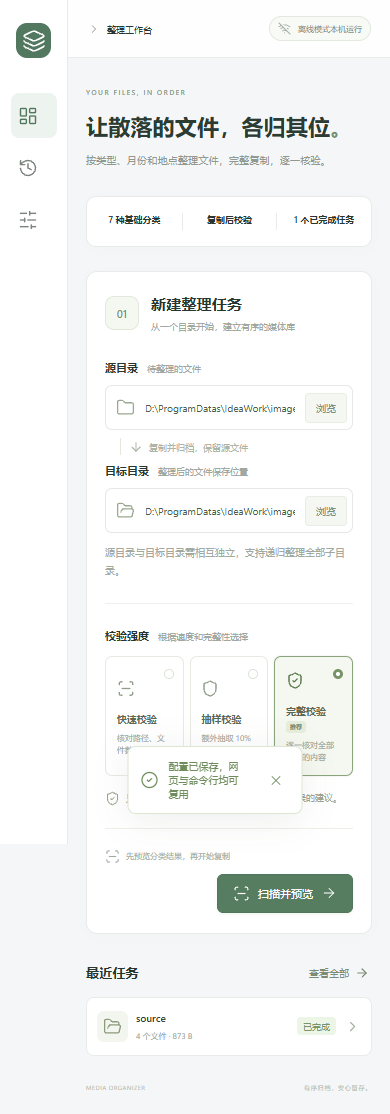
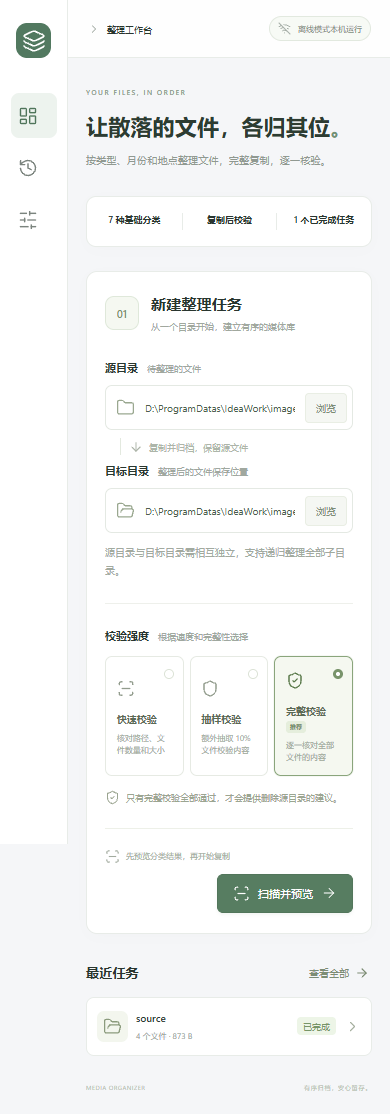
fix: harden portable runtime checks and copy edge cases

Changed region(s): [[0.2769, 0.6409, 0.8, 0.7325]]

diff --git a/frontend/src/App.vue b/frontend/src/App.vue
@@ -262,6 +262,7 @@ const selectedAll = computed(
       .every((e) => selected.value.has(e.id)),
 );
 const allPages = computed(() => Math.max(1, Math.ceil(total.value / 50)));
+let browseRequest = 0;
 let poll: ReturnType<typeof setInterval>,
   toastTimer: ReturnType<typeof setTimeout>,
   searchTimer: ReturnType<typeof setTimeout>,
@@ -481,6 +482,7 @@ async function saveEdit() {
   }
 }
 async function browse(kind: "source" | "target", path?: string) {
+  const request = ++browseRequest;
   browserBusy.value = true;
   if (!browser.value)
     browser.value = { kind, path: "", parent: "", directories: [] };
@@ -491,12 +493,14 @@ async function browse(kind: "source" | "target", path?: string) {
           path: path ?? (kind === "source" ? source.value : target.value),
         }),
     );
+    if (!browser.value || request !== browseRequest) return;
     browser.value = { kind, ...result };
     browserPath.value = result.path;
   } catch (error: any) {
     notice(error.message, true);
-    if (browser.value && !browser.value.path) {
+    if (browser.value && !browser.value.path && request === browseRequest) {
       const result = await api("/directories");
+      if (!browser.value || request !== browseRequest) return;
       browser.value = { kind, ...result };
       browserPath.value = "";
     }

diff --git a/scripts/smoke_release.py b/scripts/smoke_release.py
@@ -8,6 +8,9 @@ import subprocess
 import sys
 import tempfile
 import io
+import socket
+import time
+import urllib.request
 from pathlib import Path
 
 
@@ -60,7 +63,34 @@ def main():
             assert hashlib.sha256((target / entry["target_rel"]).read_bytes()).hexdigest() == hashlib.sha256(expected).hexdigest()
         quick = command("run", str(source), str(target), "--verification", "quick", "--yes")
         assert not quick["safe_to_delete"], quick
-    print("PASS: frozen startup, bundled tools/data, copy, SHA-256, source preservation, quick-level deletion gate", flush=True)
+        with socket.socket() as listener:
+            listener.bind(("127.0.0.1", 0))
+            port = listener.getsockname()[1]
+        server = subprocess.Popen([str(executable), "--state-dir", str(root / "server-state"), "serve", "--no-browser", "--port", str(port)], stdout=subprocess.PIPE, stderr=subprocess.PIPE, env=env, creationflags=getattr(subprocess, "CREATE_NO_WINDOW", 0))
+        try:
+            opener = urllib.request.build_opener(urllib.request.ProxyHandler({}))
+            deadline = time.monotonic() + 20
+            while True:
+                try:
+                    with opener.open(f"http://127.0.0.1:{port}/api/meta", timeout=2) as response:
+                        assert json.load(response)["offline"] is True
+                    break
+                except OSError:
+                    if server.poll() is not None or time.monotonic() >= deadline:
+                        raise AssertionError("Frozen local web service did not start")
+                    time.sleep(0.1)
+            with opener.open(f"http://127.0.0.1:{port}/", timeout=5) as response:
+                assert b'id="app"' in response.read()
+            with opener.open(f"http://127.0.0.1:{port}/api/jobs", timeout=5) as response:
+                assert json.load(response) == []
+        finally:
+            server.terminate()
+            try:
+                server.wait(timeout=10)
+            except subprocess.TimeoutExpired:
+                server.kill()
+                server.wait(timeout=5)
+    print("PASS: frozen CLI and web service, bundled tools/data, Unicode paths, offline GPS, copy, SHA-256, source preservation, quick-level deletion gate", flush=True)
 
 
 if __name__ == "__main__":

diff --git a/src/media_organizer/metadata.py b/src/media_organizer/metadata.py
@@ -32,7 +32,7 @@ def exiftool_path() -> Path | None:
 
 
 class MetadataReader:
-    TAGS = ("DateTimeOriginal", "CreateDate", "CreationDate", "RecordingTime", "OffsetTimeOriginal", "GPSLatitude", "GPSLongitude", "GPSLatitudeRef", "GPSLongitudeRef", "Make", "Model", "LensModel", "ExposureTime", "FNumber", "ISO", "FileSource", "SceneType", "City", "Province-State", "Country", "CountryCode", "Country-PrimaryLocationName")
+    TAGS = ("DateTimeOriginal", "CreateDate", "CreationDate", "RecordingTime", "OffsetTimeOriginal", "GPSLatitude", "GPSLongitude", "GPSLatitudeRef", "GPSLongitudeRef", "Make", "Model", "LensModel", "ExposureTime", "FNumber", "ISO", "FileSource", "SceneType", "City", "Province-State", "Country", "CountryCode", "Country-PrimaryLocationName", "LocationCreatedCity", "LocationCreatedProvinceState", "LocationCreatedCountryCode", "LocationCreatedCountryName")
 
     def __init__(self):
         self.executable = exiftool_path()
@@ -156,9 +156,9 @@ def classify(source_rel: str, stat, metadata: dict, places: Places, settings: di
     if date.replace(tzinfo=None) > datetime.now() + timedelta(days=2):
         warnings.append("归档日期在未来，请检查")
     place = None
-    city = str(tag(metadata, "City") or "")
+    city = str(tag(metadata, "LocationCreatedCity") or tag(metadata, "City") or "")
     if city:
-        place = places.city(city, str(tag(metadata, "CountryCode") or tag(metadata, "Country") or tag(metadata, "Country-PrimaryLocationName") or ""), str(tag(metadata, "Province-State") or ""))
+        place = places.city(city, str(tag(metadata, "LocationCreatedCountryCode") or tag(metadata, "LocationCreatedCountryName") or tag(metadata, "CountryCode") or tag(metadata, "Country") or tag(metadata, "Country-PrimaryLocationName") or ""), str(tag(metadata, "LocationCreatedProvinceState") or tag(metadata, "Province-State") or ""))
         if not place:
             warnings.append("地点文字无法唯一匹配到城市")
     lat, lon = tag(metadata, "GPSLatitude"), tag(metadata, "GPSLongitude")

diff --git a/scripts/github_ci.py b/scripts/github_ci.py
@@ -33,6 +33,7 @@ def main():
     parser.add_argument("--run", type=int)
     parser.add_argument("--logs", type=int, help="Job ID")
     parser.add_argument("--artifact", type=int)
+    parser.add_argument("--artifacts", type=int, help="List artifacts for a workflow run")
     parser.add_argument("--output", type=Path)
     parser.add_argument("--sha")
     args = parser.parse_args()
@@ -48,6 +49,8 @@ def main():
     with httpx.Client(headers=headers, follow_redirects=True, timeout=40, trust_env=False, proxy=proxy, verify=ssl.create_default_context()) as client:
         if args.logs:
             url = f"{endpoint}/actions/jobs/{args.logs}/logs"
+        elif args.artifacts:
+            url = f"{endpoint}/actions/runs/{args.artifacts}/artifacts"
         elif args.artifact:
             url = f"{endpoint}/actions/artifacts/{args.artifact}/zip"
         elif args.run:
@@ -66,7 +69,9 @@ def main():
             print(response.text)
         else:
             body = response.json()
-            if args.run:
+            if args.artifacts:
+                data = [{"id": item["id"], "name": item["name"], "size_in_bytes": item["size_in_bytes"], "expired": item["expired"]} for item in body.get("artifacts", [])]
+            elif args.run:
                 data = [{"id": item["id"], "name": item["name"], "status": item["status"], "conclusion": item["conclusion"], "html_url": item["html_url"], "steps": [{"name": step["name"], "status": step["status"], "conclusion": step["conclusion"]} for step in item.get("steps", [])]} for item in body.get("jobs", [])]
             else:
                 data = [{"id": item["id"], "status": item["status"], "conclusion": item["conclusion"], "html_url": item["html_url"], "head_sha": item["head_sha"], "name": item["name"]} for item in body.get("workflow_runs", [])]

diff --git a/tests/test_integrity.py b/tests/test_integrity.py
@@ -292,3 +292,35 @@ def test_changes_to_an_earlier_verified_target_are_detected(organizer, directori
     assert modified
     assert not checked["safe_to_delete"]
     assert checked["status"] == "completed_issues"
+
+
+def test_copy_on_filesystems_without_hard_links(organizer, directories, monkeypatch):
+    source, target = directories
+    (source / "20261125.txt").write_bytes(b"fallback content")
+    def unsupported(*args):
+        raise OSError("hard links not supported")
+    monkeypatch.setattr(os, "link", unsupported)
+    job = run(organizer, source, target)
+    assert job["safe_to_delete"], job
+    assert (target / "documents/202611/others/20261125.txt").read_bytes() == b"fallback content"
+
+
+def test_exclusive_open_failure_never_deletes_a_concurrent_target(organizer, directories, monkeypatch):
+    source, target = directories
+    (source / "20261125.txt").write_bytes(b"source")
+    destination = target / "documents/202611/others/20261125.txt"
+    def unsupported(*args):
+        raise OSError("hard links not supported")
+    original_open = Path.open
+    def concurrent_file(path, mode="r", *args, **kwargs):
+        if path == destination and mode == "xb":
+            with original_open(path, "wb") as handle:
+                handle.write(b"unrelated concurrent target")
+            raise PermissionError("target appeared during exclusive open")
+        return original_open(path, mode, *args, **kwargs)
+    monkeypatch.setattr(os, "link", unsupported)
+    monkeypatch.setattr(Path, "open", concurrent_file)
+    job = run(organizer, source, target)
+    assert not job["safe_to_delete"]
+    assert destination.read_bytes() == b"unrelated concurrent target"
+    assert (source / "20261125.txt").read_bytes() == b"source"

diff --git a/src/media_organizer/engine.py b/src/media_organizer/engine.py
@@ -284,8 +284,11 @@ class Organizer:
                 continue
             except OSError:
                 # Filesystems without hard links use exclusive creation, still never overwrite.
+                owned_identity = None
                 try:
                     with destination.open("xb") as dst, temp.open("rb") as src:
+                        owned = os.fstat(dst.fileno())
+                        owned_identity = (owned.st_dev, owned.st_ino)
                         while chunk := src.read(BLOCK):
                             if event.is_set():
                                 raise Interrupted()
@@ -295,8 +298,11 @@ class Organizer:
                 except FileExistsError:
                     continue
                 except BaseException:
-                    # This file was exclusively created by this invocation.
-                    destination.unlink(missing_ok=True)
+                    # An open failure does not imply that this invocation owns the name.
+                    if owned_identity is not None and destination.exists() and not is_link(destination):
+                        current = destination.stat(follow_symlinks=False)
+                        if (current.st_dev, current.st_ino) == owned_identity:
+                            destination.unlink(missing_ok=True)
                     raise
             temp.unlink(missing_ok=True)
             self._remember_destination(destination)

diff --git a/tests/test_metadata.py b/tests/test_metadata.py
@@ -75,3 +75,10 @@ def test_text_and_gps_conflict_is_visible(tmp_path, places):
     result = record(tmp_path, places, "photo.jpg", {"City": "杭州", "CountryCode": "CN", "GPSLatitude": 0, "GPSLongitude": -179.9})
     assert result["location"] == "CN_Zhejiang_Hangzhou"
     assert any("不同" in warning for warning in result["warnings"])
+
+
+def test_created_location_is_used_and_shown_location_is_not_inferred(tmp_path, places):
+    result = record(tmp_path, places, "created.jpg", {"LocationCreatedCity": "杭州", "LocationCreatedCountryCode": "CN", "LocationShownCity": "Other"})
+    assert result["location"] == "CN_Zhejiang_Hangzhou"
+    shown = record(tmp_path, places, "shown.jpg", {"LocationShownCity": "杭州"})
+    assert shown["location"] == "others"

diff --git a/src/media_organizer/geography.py b/src/media_organizer/geography.py
@@ -4,6 +4,7 @@ import math
 import re
 import sqlite3
 import unicodedata
+from contextlib import contextmanager
 from pathlib import Path
 
 from .paths import resource
@@ -29,10 +30,14 @@ class Places:
     def available(self) -> bool:
         return self.path.is_file()
 
+    @contextmanager
     def connect(self):
         db = sqlite3.connect(f"{self.path.as_uri()}?mode=ro", uri=True)
         db.row_factory = sqlite3.Row
-        return db
+        try:
+            yield db
+        finally:
+            db.close()
 
     @staticmethod
     def result(row, source: str, km: float | None = None) -> dict:

diff --git a/docs/验收说明.md b/docs/验收说明.md
@@ -1,0 +1,22 @@
+# 验收说明
+
+## 验证入口
+
+- 共享核心与 API：`python -m pytest -q`。
+- 网页：`node scripts/ui_test.mjs`，测试系统 Edge 中的扫描、目录浏览、取消延迟响应、预览修正、复制校验、CSV、设置、历史及窄屏布局；拦截全部外部网络请求并检查浏览器运行错误。
+- 冻结程序：`python scripts/smoke_release.py <发行包主程序>`，移除开发工具路径、清除 Python/Perl/Node 环境变量并设置不可用网络代理，验证真实发行程序的 CLI、本地 HTTP 服务、网页资源、元数据工具、中文及空格路径、离线 GPS、复制、完整校验与快速校验删除提示限制。
+- 两端构建：<https://github.com/low-key-sapling/media-organizer/actions/workflows/release.yml>。
+
+## 数据完整性重点
+
+测试包含零字节文件、隐藏文件、配套文件、同名同内容复用、同名不同内容保留、同大小内容损坏、源文件新增/修改/消失、校验后目标发生变化、任务中断恢复、报告写入失败、跨进程锁、路径逃逸、目录联接以及不支持硬链接时的独占复制。并发出现的目标文件不会被错误清理。
+
+Windows ADS 和 Linux user.* 扩展属性分别在各自系统测试。符号链接用例在未开启相关权限的 Windows 上会跳过，目录联接用例仍会运行；Linux 会验证符号链接和用户扩展属性。操作系统专属用例在另一平台跳过。
+
+## 首次规模基线
+
+2026-11-25，在本机 Windows 上创建 100,000 个空普通文件进行清单测试：扫描约 63.97 秒，末页 50 项查询约 31 毫秒，状态库约 97.7 MB。测试目录位于项目缓存，全部为生成的测试文件。
+
+该基线只验证大量文件清单与分页，不代表真实媒体的元数据读取速度，也不代表 TB 数据的复制吞吐。真实视频复制和全量校验主要受磁盘、文件大小、文件系统与设备连接影响。
+
+首次两端 CI 通过记录：<https://github.com/low-key-sapling/media-organizer/actions/runs/45581717783>。最终发行请以对应源码提交的 CI 结果和该次产物为准。
